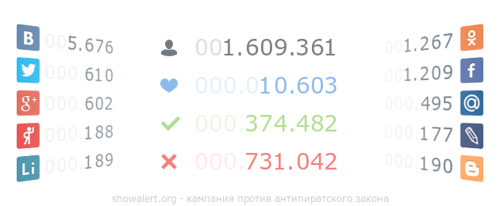
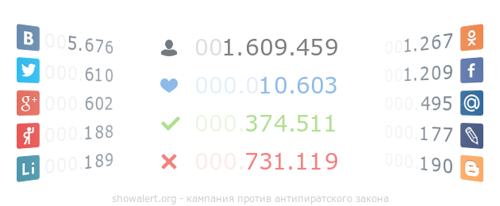
some updates

Changed region(s): [[0.57, 0.7282, 0.69, 0.8447], [0.57, 0.5534, 0.69, 0.6408], [0.57, 0.1748, 0.69, 0.2913]]

diff --git a/votes.js b/votes.js
@@ -1,1 +1,1 @@
-window.lk.votes(24046)
+window.lk.votes(24058)
